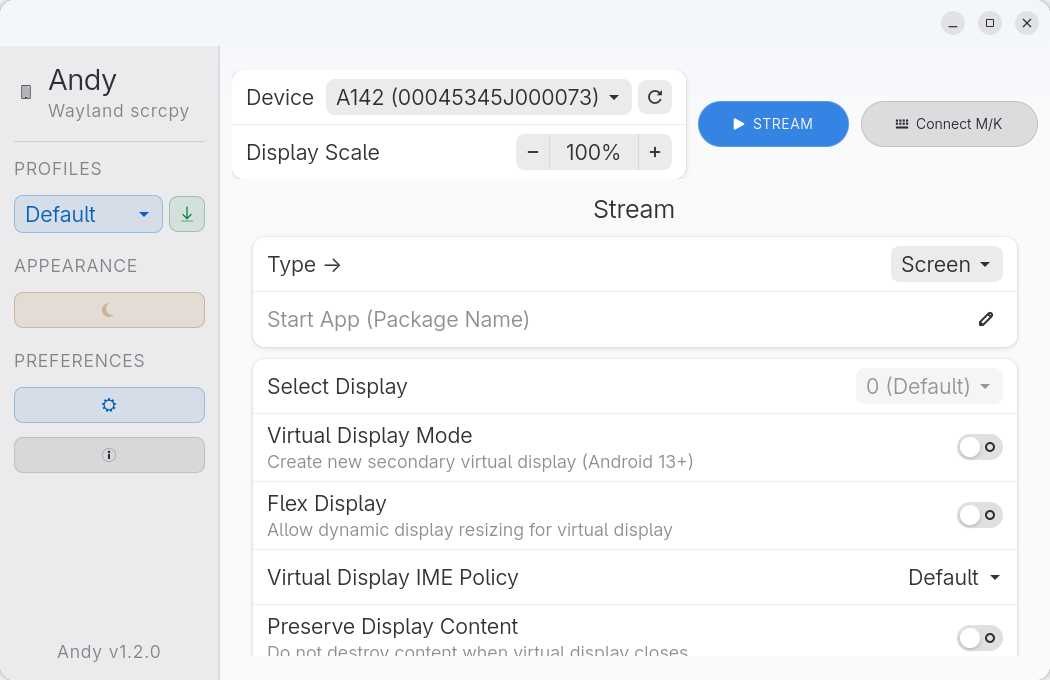
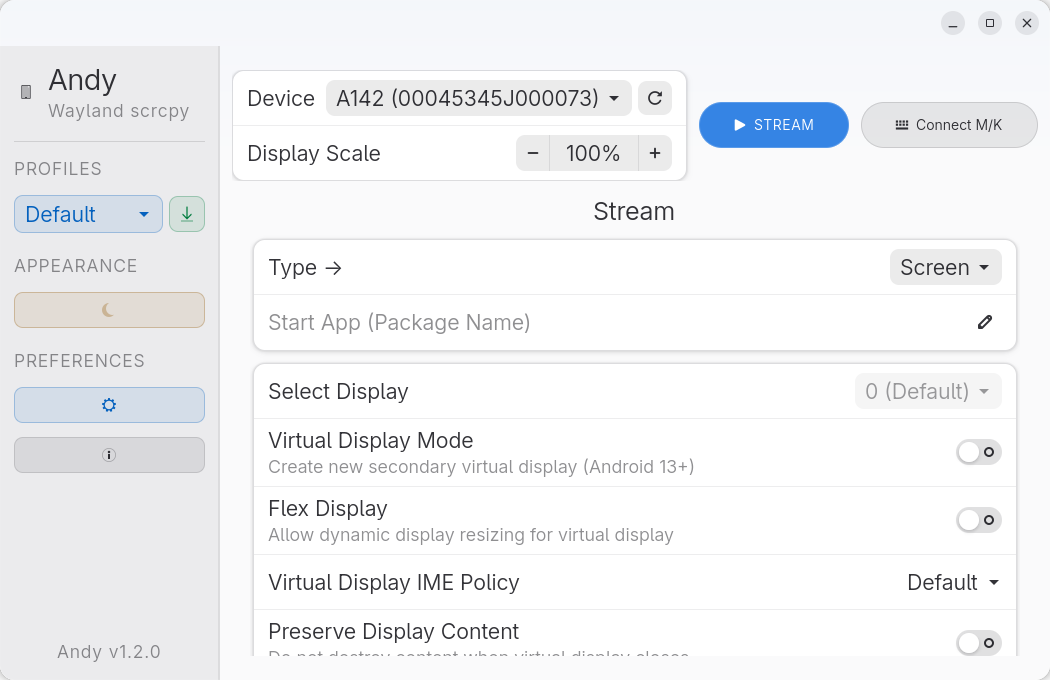
feat(theme): implement pure crisp light and deep obsidian dark backgrounds

diff --git a/src/ui/common/css.py b/src/ui/common/css.py
@@ -269,6 +269,38 @@ APPLICATION_CSS = b"""
     window.background {
         background: linear-gradient(180deg, alpha(@accent_bg_color, 0.04) 0%, transparent 140px), @window_bg_color;
     }
+
+    /* True Pure Light Mode (Crisp & Bright, Zero Grey) */
+    window.light-theme,
+    window.light-theme .background,
+    .light-theme {
+        background-color: #ffffff;
+        background-image: linear-gradient(180deg, rgba(53, 132, 228, 0.03) 0%, transparent 160px);
+        color: #1a1a1a;
+    }
+    window.light-theme .boxed-list,
+    window.light-theme .card {
+        background-color: #f7f8fa;
+        color: #1a1a1a;
+        border: 1px solid rgba(0, 0, 0, 0.07);
+        box-shadow: 0 1px 3px rgba(0, 0, 0, 0.03);
+    }
+
+    /* True Deep Dark Mode (Sleek & Obsidian, Zero Mid-Grey) */
+    window.dark-theme,
+    window.dark-theme .background,
+    .dark-theme {
+        background-color: #121214;
+        background-image: linear-gradient(180deg, rgba(53, 132, 228, 0.04) 0%, transparent 160px);
+        color: #f4f4f5;
+    }
+    window.dark-theme .boxed-list,
+    window.dark-theme .card {
+        background-color: #1e1e24;
+        color: #f4f4f5;
+        border: 1px solid rgba(255, 255, 255, 0.08);
+        box-shadow: 0 2px 8px rgba(0, 0, 0, 0.28);
+    }
 """
 
 def apply_application_css():

diff --git a/src/ui/window.py b/src/ui/window.py
@@ -452,6 +452,14 @@ class AndyWindow(Gtk.ApplicationWindow):
     def on_refresh_clicked(self, button):
         self.refresh_devices()
 
+    def _update_theme_classes(self):
+        if self.style_manager.get_dark():
+            self.add_css_class("dark-theme")
+            self.remove_css_class("light-theme")
+        else:
+            self.add_css_class("light-theme")
+            self.remove_css_class("dark-theme")
+
     def apply_saved_theme(self):
         theme = get_setting("theme", "default")
         if theme == "dark":
@@ -460,6 +468,7 @@ class AndyWindow(Gtk.ApplicationWindow):
             self.style_manager.set_color_scheme(Adw.ColorScheme.FORCE_LIGHT)
         else:
             self.style_manager.set_color_scheme(Adw.ColorScheme.DEFAULT)
+        self._update_theme_classes()
 
     def on_theme_toggled(self):
         if self.style_manager.get_dark():
@@ -468,6 +477,7 @@ class AndyWindow(Gtk.ApplicationWindow):
         else:
             self.style_manager.set_color_scheme(Adw.ColorScheme.FORCE_DARK)
             set_setting("theme", "dark")
+        self._update_theme_classes()
         self.header_bar.update_theme_icon()
 
     def refresh_profiles(self, select_name: Optional[str] = None):
